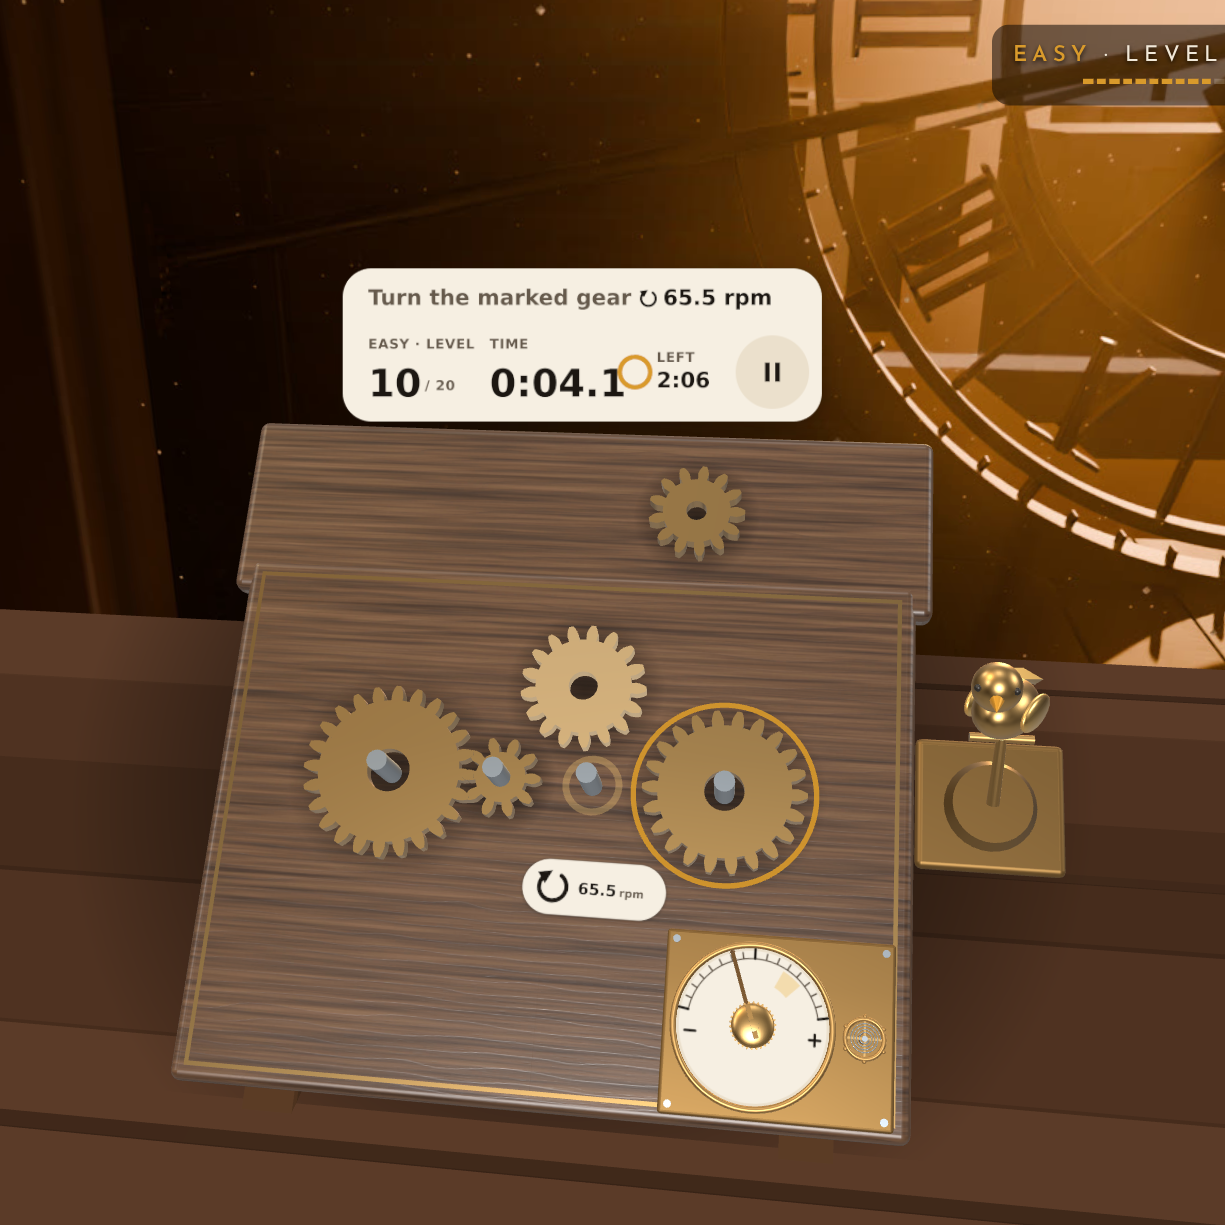
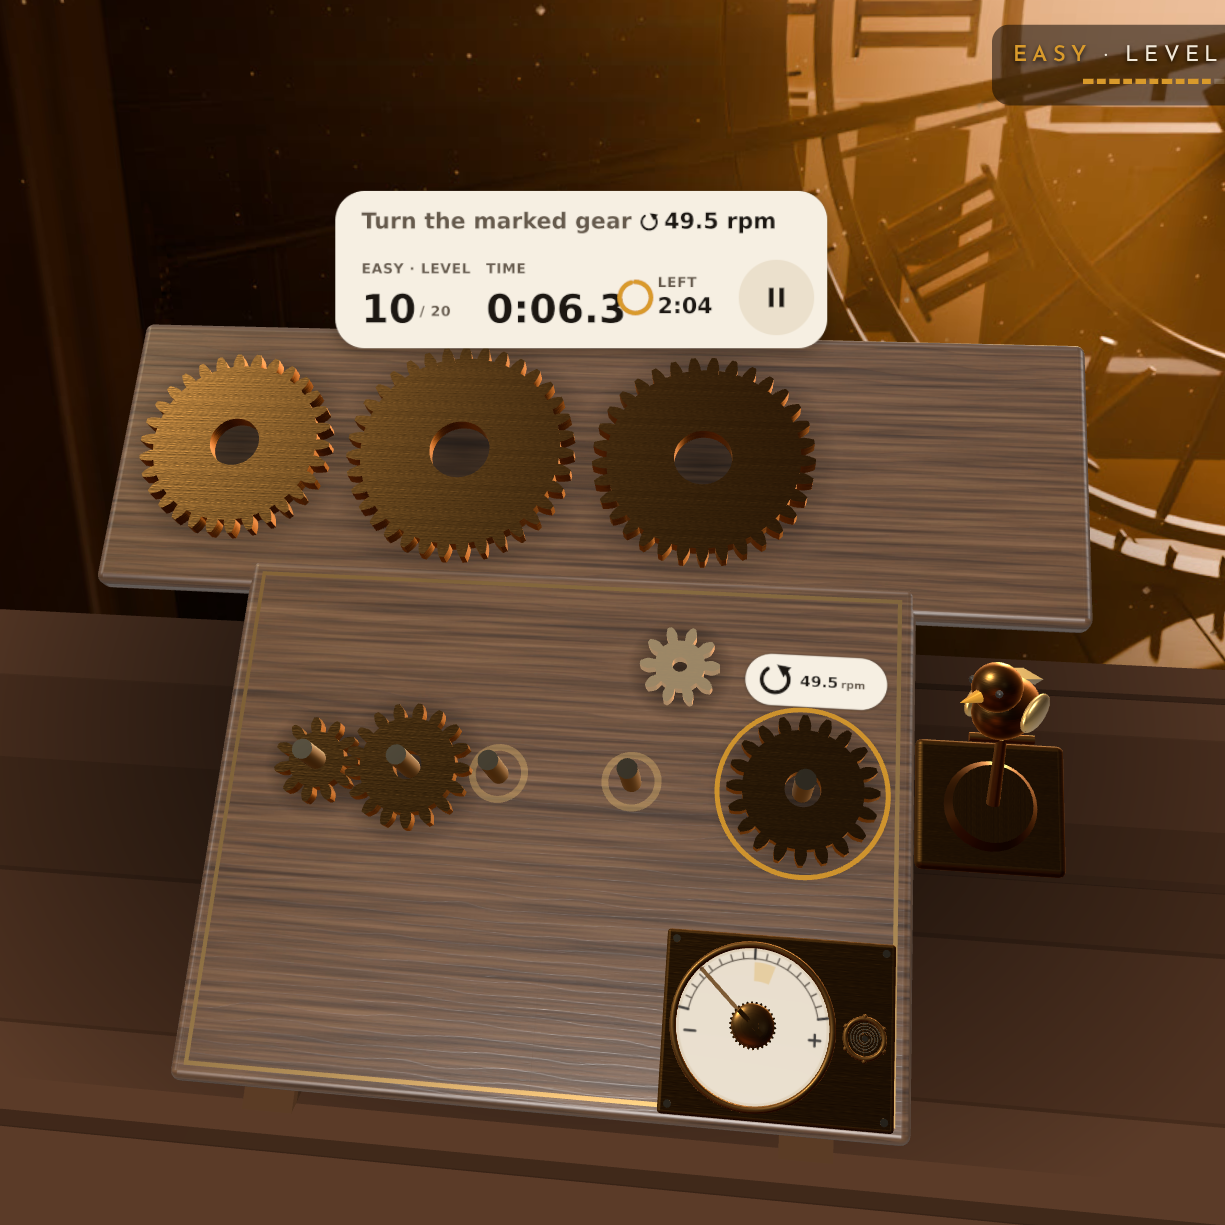
polished brass and steel lit by the stage cubemap

Changed region(s): [[0.062, 0.1551, 1.0, 0.9306], [0.6824, 0.4343, 0.7135, 0.4653]]

diff --git a/src/metal.ts b/src/metal.ts
@@ -1,0 +1,120 @@
+import { CanvasTexture, Color, MeshPhysicalMaterial, MeshStandardMaterial, RepeatWrapping, SRGBColorSpace, Vector2, type Texture } from 'three';
+import { C } from './palette';
+
+/**
+ * The metals: polished brass, cooler steel and glossy dial enamel, each lit by the stage's environment map (src/scenery.ts).
+ * A small brushed-metal pair of maps (a roughness streak map and a matching normal map) is baked once in code, tileable, with the
+ * streaks along U; no image files.
+ */
+const SIZE = 256;
+
+/** A tileable streak height field: long horizontal scratches. */
+function streaks(): Float32Array {
+  const h = new Float32Array(SIZE * SIZE);
+  let seed = 11;
+  const rnd = () => ((seed = (seed * 16807) % 2147483647) / 2147483647);
+  const rows = Array.from({ length: SIZE }, () => rnd());
+  for (let y = 0; y < SIZE; y++) {
+    // each row drifts along x with a couple of slow sines (periodic in SIZE, so the tile wraps)
+    const a = rnd() * 6.28;
+    const b = rnd() * 6.28;
+    for (let x = 0; x < SIZE; x++) {
+      h[y * SIZE + x] = 0.55 * rows[y]! + 0.25 * Math.sin((2 * Math.PI * 3 * x) / SIZE + a) * rows[(y + 1) % SIZE]! + 0.2 * Math.sin((2 * Math.PI * 7 * x) / SIZE + b) * rnd();
+    }
+  }
+  return h;
+}
+
+let maps: { roughness: Texture; normal: Texture } | null = null;
+const make = (draw: (g: CanvasRenderingContext2D) => void, srgb = false): CanvasTexture => {
+  const canvas = document.createElement('canvas');
+  canvas.width = canvas.height = SIZE;
+  draw(canvas.getContext('2d')!);
+  const t = new CanvasTexture(canvas);
+  t.wrapS = t.wrapT = RepeatWrapping;
+  if (srgb) t.colorSpace = SRGBColorSpace;
+  return t;
+};
+
+/** The shared maps (built on first use). Roughness in the green channel, 0.7 to 1 (a multiplier of the material's roughness). */
+export function brushedMaps(): { roughness: Texture; normal: Texture } {
+  if (maps) return maps;
+  const h = streaks();
+  const at = (x: number, y: number) => h[((y + SIZE) % SIZE) * SIZE + ((x + SIZE) % SIZE)]!;
+  maps = {
+    roughness: make((g) => {
+      const img = g.createImageData(SIZE, SIZE);
+      for (let i = 0; i < SIZE * SIZE; i++) {
+        const v = Math.round(255 * (0.7 + 0.3 * h[i]!));
+        img.data.set([v, v, v, 255], i * 4);
+      }
+      g.putImageData(img, 0, 0);
+    }),
+    normal: make((g) => {
+      const img = g.createImageData(SIZE, SIZE);
+      for (let y = 0; y < SIZE; y++) {
+        for (let x = 0; x < SIZE; x++) {
+          const dx = (at(x + 1, y) - at(x - 1, y)) * 2;
+          const dy = (at(x, y + 1) - at(x, y - 1)) * 2;
+          const len = Math.hypot(dx, dy, 1);
+          img.data.set([Math.round(255 * (0.5 - (dx / len) * 0.5)), Math.round(255 * (0.5 + (dy / len) * 0.5)), Math.round(255 * (0.5 + (1 / len) * 0.5)), 255], (y * SIZE + x) * 4);
+        }
+      }
+      g.putImageData(img, 0, 0);
+    }),
+  };
+  return maps;
+}
+
+/** The brushed maps at a texture repeat: gears use world-scaled UVs (a few centimetres a tile), small round parts the 0..1 ones. */
+const repeated = new Map<number, { roughness: Texture; normal: Texture }>();
+function brushedAt(repeat: number) {
+  let m = repeated.get(repeat);
+  if (!m) {
+    const base = brushedMaps();
+    const r = base.roughness.clone();
+    const n = base.normal.clone();
+    for (const t of [r, n]) {
+      t.repeat.set(repeat, repeat);
+      t.needsUpdate = true;
+    }
+    m = { roughness: r, normal: n };
+    repeated.set(repeat, m);
+  }
+  return m;
+}
+
+// The metals reflect the stage's environment map (a PMREM of its cubemap) while on a flat screen; the wood and the rest keep the
+// scene's neutral room lighting. With no stage environment (immersive-ar, or before the backdrop loads) a metal uses the scene's.
+let stageEnv: Texture | null = null;
+const live = new Set<MeshStandardMaterial>();
+/** Points every metal, present and future, at a stage environment (or back at the scene's with null). */
+export function setMetalEnv(env: Texture | null): void {
+  stageEnv = env;
+  for (const m of live) {
+    m.envMap = env;
+    m.needsUpdate = true;
+  }
+}
+export const metalEnv = (): Texture | null => stageEnv;
+function track<M extends MeshStandardMaterial>(m: M): M {
+  m.envMap = stageEnv;
+  m.envMapIntensity = ENV_INTENSITY;
+  live.add(m);
+  m.addEventListener('dispose', () => live.delete(m));
+  return m;
+}
+/** The backdrops are dim, warm LDR images, so a metal reads them stronger than 1. */
+const ENV_INTENSITY = 8;
+
+/** Polished brass: metalness 1, roughness about 0.3, a warm colour, a subtle brushing. */
+export const brass = (repeat = 40): MeshStandardMaterial =>
+  track(new MeshPhysicalMaterial({ color: new Color(C.brass), metalness: 1, roughness: 0.4, roughnessMap: brushedAt(repeat).roughness, normalMap: brushedAt(repeat).normal, normalScale: new Vector2(0.25, 0.25), envMapIntensity: 1 }));
+
+/** Darker aged brass for plates and plinths. */
+export const bronze = (repeat = 3): MeshStandardMaterial =>
+  track(new MeshPhysicalMaterial({ color: 0x7d5f33, metalness: 1, roughness: 0.5, roughnessMap: brushedAt(repeat).roughness, normalMap: brushedAt(repeat).normal, normalScale: new Vector2(0.25, 0.25), envMapIntensity: 1 }));
+
+/** Cooler steel for axles, screws and springs. */
+export const steel = (repeat = 40): MeshStandardMaterial =>
+  track(new MeshPhysicalMaterial({ color: 0x9aa3ab, metalness: 1, roughness: 0.5, roughnessMap: brushedAt(repeat).roughness, normalMap: brushedAt(repeat).normal, normalScale: new Vector2(0.2, 0.2), envMapIntensity: 1 }));

diff --git a/src/scenery.ts b/src/scenery.ts
@@ -14,6 +14,8 @@ import {
   Shape,
   type Scene,
   type CubeTexture,
+  type PMREMGenerator,
+  type WebGLRenderTarget,
   TorusGeometry,
   Vector3,
   Color,
@@ -23,6 +25,7 @@ import type { Placement } from './anchor';
 import { type BackdropId } from './backdrop';
 import { C, SCENE } from './palette';
 import { TRAY_POSE } from './seat';
+import { metalEnv, setMetalEnv } from './metal';
 import { type WoodSet, benchTopGeometry, benchWood } from './wood';
 
 /** 'inline' is the desktop and phone view (the bench under the tray, a rendered cubemap behind it); 'xr' is immersive-ar (a few props on the real table, nothing else). */
@@ -206,7 +209,7 @@ export function buildScenery(mode: SceneryMode, wood: WoodSet | null = null): Sc
 }
 
 /** What the test hook reports: the mode now shown, the visible mesh names and their triangles, and what is behind the room. */
-export type SceneryState = { mode: SceneryMode; parts: string[]; tris: number; background: boolean; cube: boolean; backdrop: BackdropId | null; fog: boolean };
+export type SceneryState = { mode: SceneryMode; parts: string[]; tris: number; background: boolean; cube: boolean; environment: 'stage' | 'neutral'; backdrop: BackdropId | null; fog: boolean };
 
 export type Sceneries = {
   inline: Scenery;
@@ -221,10 +224,13 @@ export type Sceneries = {
 };
 
 /** Adds both sceneries to the scene and returns the switch between them. Starts inline. */
-export function createScenery(scene: Scene, wood: WoodSet | null = null): Sceneries {
+export function createScenery(scene: Scene, wood: WoodSet | null = null, pmrem: PMREMGenerator | null = null): Sceneries {
   const inline = buildScenery('inline', wood);
   const xr = buildScenery('xr');
   let backdrop: { id: BackdropId; texture: CubeTexture } | null = null;
+  // The metals reflect the stage: its cubemap, prefiltered once per stage (one PMREM, the old one freed). In immersive-ar, and
+  // before a backdrop has loaded, they use the scene's neutral room environment.
+  let stageEnv: WebGLRenderTarget | null = null;
   scene.add(inline.group, xr.group);
   let presenting = false;
   let last: Placement | null = null;
@@ -233,6 +239,7 @@ export function createScenery(scene: Scene, wood: WoodSet | null = null): Scener
     scene.fog = null;
     scene.background = presenting ? null : (backdrop?.texture ?? null);
     xr.group.visible = presenting && last !== null && last.stand > 0.02;
+    setMetalEnv(!presenting && stageEnv ? stageEnv.texture : null);
   };
   apply();
   return {
@@ -245,6 +252,10 @@ export function createScenery(scene: Scene, wood: WoodSet | null = null): Scener
     setBackdrop(id, texture) {
       if (backdrop && backdrop.texture !== texture) backdrop.texture.dispose();
       backdrop = { id, texture };
+      if (pmrem) {
+        stageEnv?.dispose();
+        stageEnv = pmrem.fromCubemap(texture);
+      }
       apply();
     },
     place(placement) {
@@ -265,7 +276,7 @@ export function createScenery(scene: Scene, wood: WoodSet | null = null): Scener
           tris += triangles(o.geometry);
         });
       }
-      return { mode: presenting ? 'xr' : 'inline', parts, tris, background: scene.background !== null, cube: (scene.background as CubeTexture | null)?.isCubeTexture === true, backdrop: backdrop?.id ?? null, fog: scene.fog !== null };
+      return { mode: presenting ? 'xr' : 'inline', parts, tris, background: scene.background !== null, environment: metalEnv() !== null ? 'stage' : 'neutral', cube: (scene.background as CubeTexture | null)?.isCubeTexture === true, backdrop: backdrop?.id ?? null, fog: scene.fog !== null };
     },
   };
 }

diff --git a/tests/unit/scenery.test.ts b/tests/unit/scenery.test.ts
@@ -4,6 +4,7 @@ import { DEFAULT_PLACEMENT, type Placement } from '../../src/anchor';
 import { C, SCENE } from '../../src/palette';
 import { backdropDir } from '../../src/backdrop';
 import { buildScenery, createScenery } from '../../src/scenery';
+import { metalEnv, setMetalEnv } from '../../src/metal';
 import { benchTopGeometry, brassInlay, planarUv, type WoodSet } from '../../src/wood';
 import { BOARD_MARGIN, COMFORT, TRAY_HALF, TRAY_POSE, inZone, type Vec3 } from '../../src/seat';
 import { PANEL_ZONE } from '../../src/ui';
@@ -173,6 +174,49 @@ describe('scenery colours', () => {
   it('src/scenery.ts hard-codes no colour', () => {
     expect(src).not.toMatch(/#[0-9a-f]{3,8}\b/i);
     expect(src).not.toMatch(/0x[0-9a-f]{6}\b/i);
+  });
+});
+
+describe('createScenery: the stage environment for the metals', () => {
+  const fake = () => {
+    const made: { texture: Texture; disposed: boolean }[] = [];
+    const pmrem = {
+      fromCubemap: () => {
+        const rt = { texture: new Texture(), disposed: false, dispose() { this.disposed = true; } };
+        made.push(rt);
+        return rt;
+      },
+    };
+    return { made, pmrem: pmrem as never };
+  };
+
+  it('a backdrop becomes the metals\' environment (one PMREM, the old one freed); immersive-ar and no backdrop use the scene\'s', () => {
+    const { made, pmrem } = fake();
+    const sc = createScenery(new Scene(), null, pmrem);
+    expect(sc.state().environment).toBe('neutral');
+    expect(metalEnv()).toBeNull();
+    sc.setBackdrop('c2', new CubeTexture());
+    expect(made).toHaveLength(1);
+    expect(metalEnv()).toBe(made[0]!.texture);
+    expect(sc.state().environment).toBe('stage');
+    sc.setBackdrop('c3', new CubeTexture());
+    expect(made).toHaveLength(2);
+    expect(made[0]!.disposed).toBe(true);
+    expect(made[1]!.disposed).toBe(false);
+    expect(metalEnv()).toBe(made[1]!.texture);
+    sc.set(true);
+    expect(metalEnv()).toBeNull();
+    expect(sc.state().environment).toBe('neutral');
+    sc.set(false);
+    expect(metalEnv()).toBe(made[1]!.texture);
+    setMetalEnv(null);
+  });
+
+  it('without a PMREM generator nothing is built', () => {
+    const sc = createScenery(new Scene());
+    sc.setBackdrop('c1', new CubeTexture());
+    expect(metalEnv()).toBeNull();
+    expect(sc.state().environment).toBe('neutral');
   });
 });
 

diff --git a/src/main.ts b/src/main.ts
@@ -3,7 +3,7 @@ import { OrbitControls } from 'three/examples/jsm/controls/OrbitControls.js';
 import { APP_TITLE, createWorldOptions } from './config';
 import { DEFAULT_PLACEMENT, toHeadFrame, type Head } from './anchor';
 import { startSession } from './enter';
-import { BoxGeometry, Color, DoubleSide, Euler, Mesh, MeshBasicMaterial, Plane, PlaneGeometry, Quaternion, Raycaster, RingGeometry, Vector2, Vector3, type MeshStandardMaterial, type Object3D } from 'three';
+import { BoxGeometry, Color, PMREMGenerator, DoubleSide, Euler, Mesh, MeshBasicMaterial, Plane, PlaneGeometry, Quaternion, Raycaster, RingGeometry, Vector2, Vector3, type MeshStandardMaterial, type Object3D } from 'three';
 import { grabModeOf, holderHand, occupiedAt, pickGear, pinchOwner, snapAxle, type Hand } from './grab';
 import { handNear, rayPick, validAxles, type HoverTarget } from './hover';
 import { LEVELS, checkLevel, type Level } from './levels';
@@ -159,7 +159,7 @@ par = parHere(levelIndex, level);
 tuneForSoftwareGl(world.renderer);
 const built = buildScene(level, world.scene, world.renderer);
 // The bench and a rendered panorama behind the tray on desktop and phone; in immersive-ar only a few props on the real table (src/scenery.ts).
-const scenery = createScenery(world.scene, isSoftwareGl(world.renderer) ? null : woodSet('bench', isPhone(window.innerWidth, window.innerHeight), world.renderer));
+const scenery = createScenery(world.scene, isSoftwareGl(world.renderer) ? null : woodSet('bench', isPhone(window.innerWidth, window.innerHeight), world.renderer), new PMREMGenerator(world.renderer));
 /**
  * The rendered panorama behind the tray: the attic (c2) on every menu, the stage's own while a level is on. One at a time: a
  * new one replaces the old (freeing its texture) once it has loaded, and a switch made while one is loading wins.
@@ -1734,6 +1734,10 @@ window.__chrono = Object.freeze({
   get render() {
     const { calls, triangles } = world.renderer.info.render;
     return { calls, triangles };
+  },
+  get metals() {
+    const g = built.gears.values().next().value!.material as MeshStandardMaterial;
+    return { metalness: g.metalness, roughness: g.roughness, roughnessMap: !!g.roughnessMap, normalMap: !!g.normalMap, environment: g.envMap !== null, intensity: g.envMapIntensity };
   },
   get trayWood() {
     const m = built.wood;

diff --git a/src/globals.d.ts b/src/globals.d.ts
@@ -75,10 +75,12 @@ interface ChronoHook {
   readonly render: { readonly calls: number; readonly triangles: number };
   /**
    * Live: the scenery (src/scenery.ts). `mode`: 'inline' (bench and panorama backdrop) or 'xr' (a few props on the real table);
-   * `parts`: names of the scenery meshes drawn now; `tris`: their triangles; `background`: scene.background is set; `cube`: it is a CubeTexture; `backdrop`: which panorama (c1-c3);
+   * `parts`: names of the scenery meshes drawn now; `tris`: their triangles; `background`: scene.background is set; `cube`: it is a CubeTexture; `environment`: what lights the metals ('stage' = the backdrop's PMREM, 'neutral' = the room environment); `backdrop`: which panorama (c1-c3);
    * `fog`: scene.fog is set; `clearAlpha`: the renderer's clear alpha.
    */
-  readonly scenery: { readonly mode: 'inline' | 'xr'; readonly parts: readonly string[]; readonly tris: number; readonly background: boolean; readonly cube: boolean; readonly backdrop: 'c1' | 'c2' | 'c3' | null; readonly fog: boolean; readonly clearAlpha: number };
+  readonly scenery: { readonly mode: 'inline' | 'xr'; readonly parts: readonly string[]; readonly tris: number; readonly background: boolean; readonly cube: boolean; readonly environment: 'stage' | 'neutral'; readonly backdrop: 'c1' | 'c2' | 'c3' | null; readonly fog: boolean; readonly clearAlpha: number };
+  /** Live: the first gear's metal (metalness, roughness, brushed maps) and whether the scene has an environment map (scene.environment). */
+  readonly metals: { readonly metalness: number; readonly roughness: number; readonly roughnessMap: boolean; readonly normalMap: boolean; readonly environment: boolean; readonly intensity: number };
   /** Live: the tray's wood material (PBR maps present, anisotropy of the albedo map). */
   readonly trayWood: { readonly physical: boolean; readonly map: boolean; readonly normalMap: boolean; readonly roughnessMap: boolean; readonly anisotropy: number; readonly normalScale: number; readonly clearcoat: number };
   /** Live: true once the escapement is calibrated and the automaton runs. */

diff --git a/src/clockwork.ts b/src/clockwork.ts
@@ -6,7 +6,7 @@ import {
   CylinderGeometry,
   Group,
   Mesh,
-  MeshBasicMaterial,
+  MeshPhysicalMaterial,
   MeshStandardMaterial,
   Object3D,
   SRGBColorSpace,
@@ -16,6 +16,7 @@ import {
   Vector3,
   BoxGeometry,
 } from 'three';
+import { bronze as metalBronze, brass as metalBrass, steel as metalSteel } from './metal';
 import { RoundedBoxGeometry } from 'three/examples/jsm/geometries/RoundedBoxGeometry.js';
 import { BAND, TWIST_FULL, settingOf } from './escapement';
 import { C } from './palette';
@@ -57,9 +58,10 @@ export const KNOB_TOP = 0.019;
 /** A pinch (or a mouse press) this close to the knob grabs it: the whole dial is the target, metres. */
 export const KNOB_GRAB_M = 0.04;
 
-const brass = () => new MeshStandardMaterial({ color: 0xb08d57, metalness: 1, roughness: 0.35 });
-const bronze = () => new MeshStandardMaterial({ color: 0x7d5f33, metalness: 0.85, roughness: 0.45 });
-const steel = () => new MeshStandardMaterial({ color: 0x9aa3ab, metalness: 1, roughness: 0.35 });
+// Polished, lightly brushed metals (src/metal.ts); the parts here have 0..1 UVs, so a coarse brushing repeat.
+const brass = () => metalBrass(3);
+const bronze = () => metalBronze(3);
+const steel = () => metalSteel(3);
 const flat = <T extends Object3D>(m: T, lift: number, at: readonly [number, number]) => {
   m.position.set(...trayLocal(at[0], at[1], lift));
   return m;
@@ -167,7 +169,7 @@ export function createEscapement() {
 
   // Dial: brass bezel round a cream face.
   const face = dialFace();
-  const faceMesh = new Mesh(new CircleGeometry(DIAL_R, 64), new MeshBasicMaterial({ map: face.tex, toneMapped: false }));
+  const faceMesh = new Mesh(new CircleGeometry(DIAL_R, 64), new MeshPhysicalMaterial({ map: face.tex, color: 0xb0b0b0, metalness: 0, roughness: 0.2, clearcoat: 0.3, clearcoatRoughness: 0.15, envMapIntensity: 0.3 }));
   faceMesh.rotation.x = -Math.PI / 2;
   root.add(flat(faceMesh, 0.0052, DIAL_AT));
   const bezel = new Mesh(new TorusGeometry(DIAL_R, 0.0019, 10, 72), brass());

diff --git a/tests/e2e/scenery.spec.ts b/tests/e2e/scenery.spec.ts
@@ -44,6 +44,7 @@ async function expectBackdrop(page: Page, id = 'c2') {
   expect(s.parts.length).toBeLessThanOrEqual(3);
   expect(s.background).toBe(true);
   expect(s.cube).toBe(true);
+  expect(s.environment).toBe('stage');
   expect(s.fog).toBe(false);
   expect(s.tris).toBeLessThanOrEqual(1000);
 }
@@ -88,6 +89,18 @@ test('the tray is walnut PBR: albedo, normal and roughness maps, anisotropic fil
   expect(w.anisotropy).toBeGreaterThan(1);
   expect(w.normalScale).toBeLessThanOrEqual(0.4);
   expect(w.clearcoat).toBeLessThanOrEqual(0.2);
+  expect(errors).toEqual([]);
+});
+
+test('the metals are polished brass lit by the stage environment', async ({ page }) => {
+  const errors = await open(page, 1440, 900);
+  await expectBackdrop(page);
+  const m = await page.evaluate(() => window.__chrono!.metals);
+  expect(m.metalness).toBe(1);
+  expect(m.roughness).toBeGreaterThanOrEqual(0.28);
+  expect(m.roughness).toBeLessThanOrEqual(0.45);
+  expect(m.roughnessMap && m.normalMap).toBe(true);
+  expect(m.environment).toBe(true);
   expect(errors).toEqual([]);
 });
 

diff --git a/src/scene.ts b/src/scene.ts
@@ -23,14 +23,13 @@ import {
 import { RoomEnvironment } from 'three/examples/jsm/environments/RoomEnvironment.js';
 import { RoundedBoxGeometry } from 'three/examples/jsm/geometries/RoundedBoxGeometry.js';
 import { gearGeometry } from './gear';
+import { brass, steel } from './metal';
 import { isPhone } from './fit';
 import { brassInlay, planarUv, trayWood, woodSet } from './wood';
 import type { Level } from './levels';
 import type { Placement } from './anchor';
 import { BOARD_MARGIN, PIN_RADIUS, TRAY_HALF, TRAY_POSE, layerLift, ledgeFar, partsStrip, trayLocal } from './seat';
 
-const brass = () => new MeshStandardMaterial({ color: 0xb08d57, metalness: 1, roughness: 0.35 });
-const steel = () => new MeshStandardMaterial({ color: 0x9aa3ab, metalness: 1, roughness: 0.4 });
 
 /** A soft round shadow: dark in the middle, fading to nothing at the rim. */
 function softShadow(): CanvasTexture {

diff --git a/tests/e2e/stages.spec.ts b/tests/e2e/stages.spec.ts
@@ -52,6 +52,7 @@ test('the backdrop follows the stage: Easy attic, Medium atelier, Hard movement,
     const s = await page.evaluate(() => window.__chrono!.scenery);
     expect(s.background, `${stage} has a texture background`).toBe(true);
     expect(s.cube, `${stage} background is a CubeTexture`).toBe(true);
+    expect(s.environment, `${stage} lights the metals with its own environment`).toBe('stage');
     await click(page, 'pause');
     await cardIs(page, 'paused');
     expect(await words(page)).toContain(`${stage.toUpperCase()} · LEVEL 1`);

diff --git a/tests/e2e/dev-scenery.spec.ts b/tests/e2e/dev-scenery.spec.ts
@@ -64,6 +64,7 @@ test('immersive-ar without a table: passthrough stays the whole background, no b
   expect(s.mode).toBe('xr');
   expect(s.background).toBe(false);
   expect(s.cube).toBe(false);
+  expect(s.environment).toBe('neutral');
   expect(s.fog).toBe(false);
   expect(s.clearAlpha).toBe(0);
   for (const part of BACKDROP) expect(s.parts, part).not.toContain(part);
